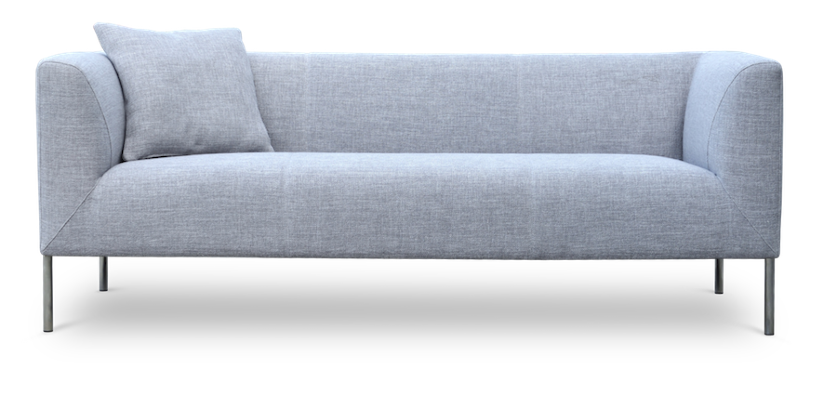
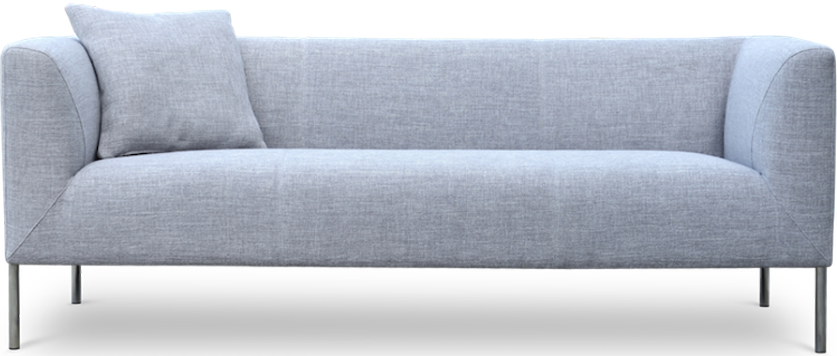
add feature on view on wall component

diff --git a/components/ArtworkPage/ViewOnWall.tsx b/components/ArtworkPage/ViewOnWall.tsx
@@ -10,6 +10,19 @@ interface ArtworkRoomProps {
   imageHeight: number;
 }
 
+interface SofaDetails {
+  imageSrc: string;
+  imgWidth: number;
+  imgHeight: number;
+}
+
+interface FloorDetails {
+  imageSrc: string;
+  imgWidth: number;
+  imgHeight: number;
+}
+
+
 const ViewOnWall: React.FC<ArtworkRoomProps> = ({
   imgWidthInches,
   imgHeightInches,
@@ -22,7 +35,28 @@ const ViewOnWall: React.FC<ArtworkRoomProps> = ({
   const FURNITURE_ORIGINAL_WIDTH = 228.6; // cm
   const INCH_TO_CM = 2.54;
 
+const [sofaDetails, setSofaDetails] = useState<SofaDetails>({
+  imageSrc: "/light-blue-sofa.png",
+  imgWidth: 837,
+  imgHeight: 356,
+});
+  
+const [floorBG, setFloorBG] = useState<string>("/light-floor.png");
 
+const handleSofaButton = (newSrc: string,  newWidth: number,  newHeight: number): void => {
+  setSofaDetails({
+    imageSrc: newSrc,
+    imgWidth: newWidth,
+    imgHeight: newHeight,
+  });
+};
+
+  const handleFloorButton = (floorBg:string) => {
+    setFloorBG(floorBg);
+  }
+
+const { imageSrc, imgWidth, imgHeight } = sofaDetails;
+ 
 
   useEffect(() => {
     const resizeSofa = () => {
@@ -84,7 +118,9 @@ const ViewOnWall: React.FC<ArtworkRoomProps> = ({
         <div className="wall">
           <div className="wall-inner-wrap">
             <Image
-              className={`${showRoom ? "animate-zoomOutMobile md:animate-zoomOut" : ""} z-[70] painting drop-shadow-3xl`}
+              className={`${
+                showRoom ? "animate-zoomOutMobile md:animate-zoomOut" : ""
+              } z-[70] painting drop-shadow-3xl`}
               src={`/${artworkImage}`}
               alt="Espacio Manila - Painting"
               style={{ width: "100%" }}
@@ -94,16 +130,54 @@ const ViewOnWall: React.FC<ArtworkRoomProps> = ({
 
             <div className="furniture-sofa" style={{ width: `${sofaWidth}px` }}>
               <Image
-                src="/brown-sofa.png"
+                src={imageSrc}
                 alt=""
                 style={{ width: "100%" }}
-                width={837}
-                height={324}
+                width={imgWidth}
+                height={imgHeight}
               />
             </div>
           </div>
         </div>
-        <div className="floor"></div>
+        <div
+          className="bg-center floor bg-floor-xs sm:bg-floor-sm md:bg-fill"
+          style={{ background: `url(${floorBG})` }}
+        ></div>
+
+        <div className="fixed flex flex-col gap-6 top-10 right-10 ">
+          <button
+            onClick={() => handleSofaButton("/brown-sofa.png", 837, 324)}
+            className="w-20 px-1.5 bg-white h-14 rounded-md shadow-lg border border-[#E6EAED] hover:border-[#009688] group"
+          >
+            <Image
+              src="/brown-sofa.png"
+              alt=""
+              width={837}
+              height={324}
+              className="duration-300 group-hover:scale-90"
+            />
+          </button>
+          <button
+            onClick={() => handleSofaButton("/light-blue-sofa.png", 837, 356)}
+            className="w-20 px-1.5 bg-white h-14 rounded-md shadow-lg border border-[#E6EAED] hover:border-[#009688] group"
+          >
+            <Image
+              src="/light-blue-sofa.png"
+              alt=""
+              width={837}
+              height={356}
+              className="duration-300 group-hover:scale-90"
+            />
+          </button>
+          <button
+            onClick={() => handleFloorButton("/dark-floor.png")}
+            className="w-20 px-1.5 bg-white h-14 rounded-md bg-[url(/dark-floor.png)] border border-[#E6EAED] shadow-lg hover:border-[#009688] hover:opacity-90"
+          ></button>
+          <button
+            onClick={() => handleFloorButton("/light-floor.png")}
+            className="w-20 px-1.5 bg-white h-14 rounded-md bg-[url(/light-floor.png)] border border-[#E6EAED] shadow-lg hover:border-[#009688] hover:opacity-90"
+          ></button>
+        </div>
       </div>
     </div>
   );

diff --git a/components/ContactPage/ArtworkCard.tsx b/components/ContactPage/ArtworkCard.tsx
@@ -1,6 +1,7 @@
 import Image from "next/image";
 import React from "react";
 import { Artworks } from "@/types/artworks";
+import Link from "next/link";
 
 interface ArtworkCard {
   artwork: Artworks;
@@ -11,6 +12,7 @@ const ArtworkCard = ({ artwork }: ArtworkCard) => {
   const {
     title,
     artist,
+    slug,
     width: artworkWidth,
     height: artworkHeight,
     image: { url: imageUrl, width: imageWidth, height: imageHeight },
@@ -20,25 +22,27 @@ const ArtworkCard = ({ artwork }: ArtworkCard) => {
   return (
     <>
       {artwork && (
-        <div className="flex items-center justify-between pr-5 mb-4 overflow-hidden rounded-lg shadow-lg animate-fadeDown">
-          <div className="h-[80px] w-[80px]">
-            <Image
-              src={`/${imageUrl}`}
-              height={imageHeight}
-              width={imageWidth}
-              alt={title}
-              className="object-contain object-left w-full h-full"
-            />
-          </div>
-          <div className="grow">
-            <h3 className="text-sm font-medium leading-tight lg:text-base">
-              {artist}
-            </h3>
-            <p className="text-sm">{title}</p>
-            <p className="text-sm">
-              {artworkWidth} x {artworkHeight} inches
-            </p>
-          </div>
+        <div className="pr-5 mb-4 overflow-hidden rounded-lg shadow-lg animate-fadeDown group">
+          <Link href={`/artworks/${slug}`} className="flex items-center justify-between gap-3">
+            <div className="h-[80px] w-[80px]">
+              <Image
+                src={`/${imageUrl}`}
+                height={imageHeight}
+                width={imageWidth}
+                alt={title}
+                className="object-cover object-left w-full h-full duration-300 group-hover:opacity-80"
+              />
+            </div>
+            <div className="grow">
+              <h3 className="text-sm font-medium leading-tight lg:text-base group-hover:underline">
+                {artist}
+              </h3>
+              <p className="text-sm">{title}</p>
+              <p className="text-sm">
+                {artworkWidth} x {artworkHeight} inches
+              </p>
+            </div>
+          </Link>
         </div>
       )}
     </>

diff --git a/components/common/Header.tsx b/components/common/Header.tsx
@@ -1,4 +1,4 @@
-import React, { useState } from "react";
+import React, { useEffect, useState } from "react";
 import { Icon } from "@iconify/react";
 import Image from "next/image";
 import Link from "next/link";
@@ -29,6 +29,11 @@ export default function Header({
 }: HeaderProps) {
   const router = useRouter();
   const [isMenuOpen, setIsMenuOpen] = useState(false);
+   const [currentPath, setCurrentPath] = useState("");
+
+   useEffect(() => {
+     setCurrentPath(router.asPath);
+   }, [router.asPath]);
 
   const toggleMenu = () => {
     setIsMenuOpen(!isMenuOpen);
@@ -38,8 +43,7 @@ export default function Header({
   const headerClass = defaultHeader ? "top-0 bg-black" : "top-5";
   const menuColorClass = defaultHeader ? "text-white/60" : "text-white/80";
   const customTextColor = color === "dark" ? "text-black" : menuColorClass;
-  const activeColor =
-    color === "dark" ? "text-black underline" : "text-white underline";
+  const activeColor = color === "dark" ? "text-black underline" : "text-white underline";
 
   return (
     <>
@@ -71,11 +75,11 @@ export default function Header({
               {menuItems.map((menu) => (
                 <li
                   key={menu.name}
-                  className={router.pathname === menu.link ? activeColor : ""}
+                  className={`${currentPath === menu.link ? activeColor : ""} underline-offset-8	decoration-2`}
                 >
                   <Link
                     href={menu.link}
-                    className="px-3 py-2 duration-300 rounded hover:underline"
+                    className="px-3 py-2 duration-300 rounded hover:underline "
                   >
                     {menu.name}
                   </Link>

diff --git a/styles/globals.css b/styles/globals.css
@@ -31,12 +31,6 @@ html {
   @apply mb-12 flex flex-col items-center flex-[100%] max-w-[100%];
 }
 
-@media (min-width: 1024px) {
-  .contact-icon {
-    @apply flex-[50%] max-w-[50%];
-  }
-}
-
 .room-wrapper {
   @apply fixed top-0 left-0 flex items-center justify-center w-full h-full overflow-hidden bg-white;
 }
@@ -46,7 +40,8 @@ html {
 }
 
 .wall {
-  @apply relative h-[80%];
+  @apply relative h-[80%] bg-repeat-x bg-[url("/wall-skirt.png")] bg-left-bottom;
+  background-size: 4px 10px;
 }
 
 .wall-inner-wrap {
@@ -59,11 +54,11 @@ html {
 }
 
 .floor {
-  @apply bg-[url("/floor-concrete-finish.webp")] bg-center bg-fill absolute bottom-0 left-[50%] translate-x-[-50%] h-[20%] w-full;
+  @apply  absolute bottom-0 left-[50%] translate-x-[-50%] h-[20%] w-full;
 }
 
 .floor:before {
-  box-shadow: inset 0 26px 36px -14px #000000d9;
+  box-shadow: inset 0 18px 16px -14px #252525;
   content: "";
   position: absolute;
   top: 0;
@@ -87,4 +82,22 @@ html {
 .image-animate {
   transform: translate(-224px, 83px) scale(3.5);
   z-index: 71;
+}
+
+@media (min-width: 640px) {
+  .wall {
+    background-size: 4px 20px;
+  }
+}
+
+@media (min-width: 1024px) {
+  .contact-icon {
+    @apply flex-[50%] max-w-[50%];
+  }
+}
+
+@media (min-width: 1536px) {
+  .wall {
+    background-size: 4px 31px;
+  }
 }

diff --git a/components/ExhibitionPage/PreviousExhibitions.tsx b/components/ExhibitionPage/PreviousExhibitions.tsx
@@ -22,10 +22,6 @@ const PreviousExhibitions = ({ data, showAll }: PreviousProps) => {
     ? previousExhibitions
     : previousExhibitions.slice(0, 2);
 
-  const handleLoading = () => {
-    console.log("image is loaded!");
-  };
-
   return (
     <>
       <div
@@ -44,8 +40,7 @@ const PreviousExhibitions = ({ data, showAll }: PreviousProps) => {
                     height={prevExhibit.image[0].height}
                     alt={prevExhibit.name}
                     className="object-cover object-center h-full duration-100 hover:opacity-80"
-                    onLoad={handleLoading}
-                  />
+                   />
                 ) : (
                   <div className="bg-slate-200 h-[338px] w-full animate-pulse"></div>
                 )}

diff --git a/pages/api/exhibitions/index.ts b/pages/api/exhibitions/index.ts
@@ -51,6 +51,22 @@ const exhibitions: ExhibitionData[] = [
       },
     ],
   },
+  {
+    id: 6,
+    name: "Inside the toy box",
+    slug: "inside-the-toy-box",
+    start_date: "2022-12-01T00:00:00Z",
+    end_date: "2022-12-02T00:00:00Z",
+    location: "Espacio Manila Gallery, Festival Mall, Muntinlupa City",
+    artist: ["Mayi Peñaflorida"],
+    image: [
+      {
+        url: "exhibitions/thumb_03.jpg",
+        width: 958,
+        height: 500,
+      },
+    ],
+  },
 ];
 
 

diff --git a/tailwind.config.js b/tailwind.config.js
@@ -1,5 +1,6 @@
 /** @type {import('tailwindcss').Config} */
 module.exports = {
+  important: true,
   content: [
     "./pages/**/*.{js,ts,jsx,tsx,mdx}",
     "./components/**/*.{js,ts,jsx,tsx,mdx}",
@@ -33,6 +34,9 @@ module.exports = {
       },
       backgroundSize: {
         fill: "100% 100%",
+        "floor-xs": "234% 34%",
+        "floor-sm": "234% 42%",
+        "floor-lg": "4px 31px",
       },
       colors: {
         grayText: "#4d4d4d",
